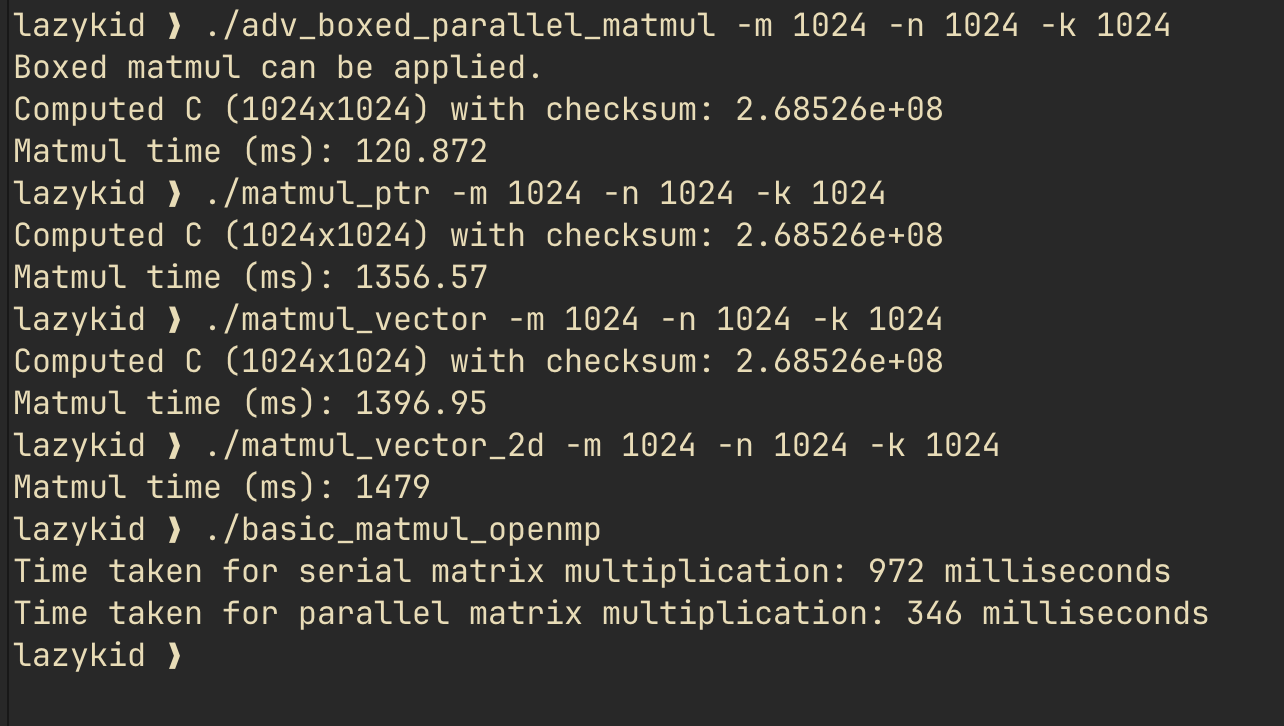
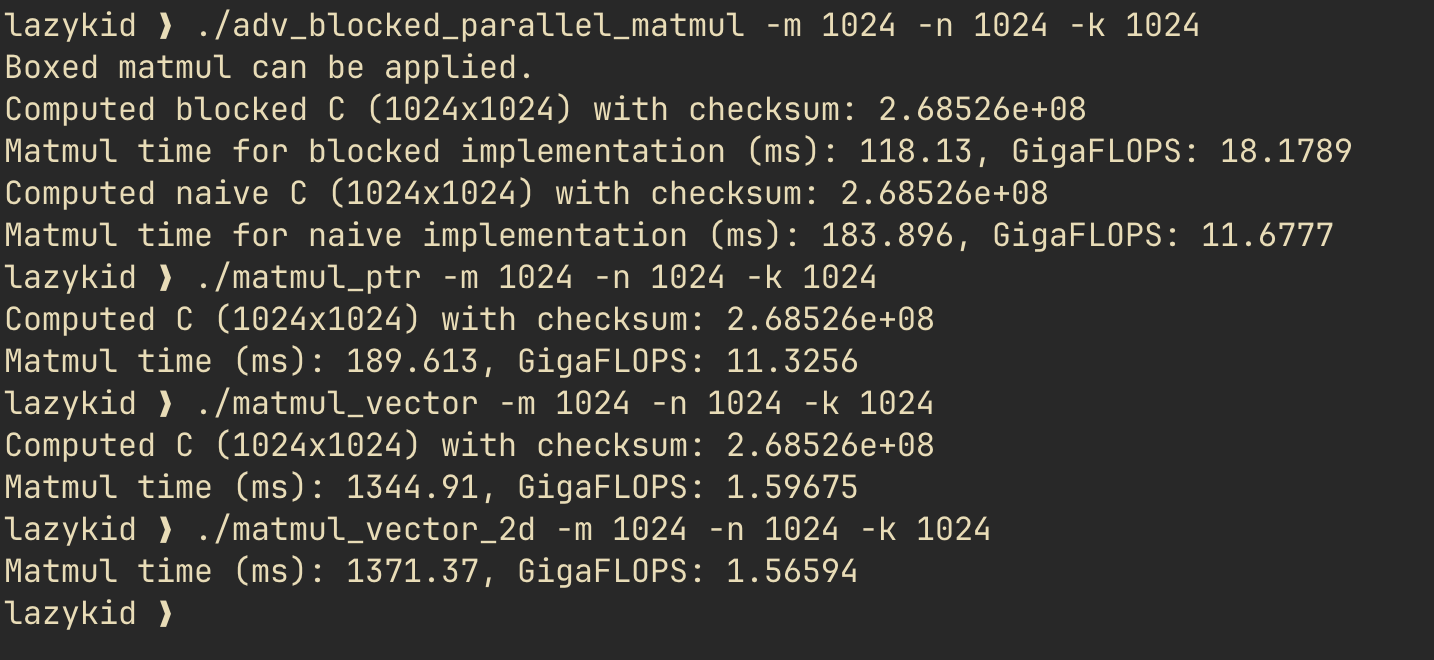
calculating gigaflops for all implementations

Changed region(s): [[0.0, 0.0, 0.9657, 0.9697], [0.8411, 0.3333, 0.9346, 0.3939]]

diff --git a/adv_blocked_parallel_matmul.cpp b/adv_blocked_parallel_matmul.cpp
@@ -34,6 +34,20 @@ size_t safe_mul(size_t a, size_t b, const char* label) {
     return a * b;
 }
 
+double calculate_gflops(size_t m,
+                        size_t n,
+                        size_t k,
+                        std::chrono::duration<double, std::milli> elapsed_ms) {
+    const double elapsed_seconds = elapsed_ms.count() / 1000.0;
+    if (elapsed_seconds <= 0.0) {
+        return 0.0;
+    }
+
+    const double flops = 2.0 * static_cast<double>(m) * static_cast<double>(n) *
+                         static_cast<double>(k);
+    return flops / elapsed_seconds / 1e9;
+}
+
 void naive_matmul(const double* A,
                   const double* B,
                   double* C,
@@ -162,6 +176,9 @@ int main(int argc, char** argv) {
     const auto n_end = std::chrono::steady_clock::now();
     const std::chrono::duration<double, std::milli> n_elapsed_ms = n_end - n_start;
 
+    const double blocked_gflops = calculate_gflops(m, n, k, b_elapsed_ms);
+    const double naive_gflops = calculate_gflops(m, n, k, n_elapsed_ms);
+
     double checksum_blocked = 0.0;
     double checksum_naive = 0.0;
     for (size_t i = 0; i < c_size; ++i) {
@@ -171,10 +188,12 @@ int main(int argc, char** argv) {
 
     std::cout << "Computed blocked C (" << m << "x" << n << ") with checksum: "
               << checksum_blocked << '\n';
-    std::cout << "Matmul time for blocked implementation (ms): " << b_elapsed_ms.count() << '\n';
+    std::cout << "Matmul time for blocked implementation (ms): " << b_elapsed_ms.count()
+              << ", GigaFLOPS: " << blocked_gflops << '\n';
     std::cout << "Computed naive C (" << m << "x" << n << ") with checksum: "
               << checksum_naive << '\n';
-    std::cout << "Matmul time for naive implementation (ms): " << n_elapsed_ms.count() << '\n';
+    std::cout << "Matmul time for naive implementation (ms): " << n_elapsed_ms.count()
+              << ", GigaFLOPS: " << naive_gflops << '\n';
 
     // imp to prevent from leaking memory 
     delete[] A;

diff --git a/matmul_ptr.cpp b/matmul_ptr.cpp
@@ -33,6 +33,20 @@ size_t safe_mul(size_t a, size_t b, const char* label) {
     return a * b;
 }
 
+double calculate_gflops(size_t m,
+                        size_t n,
+                        size_t k,
+                        std::chrono::duration<double, std::milli> elapsed_ms) {
+    const double elapsed_seconds = elapsed_ms.count() / 1000.0;
+    if (elapsed_seconds <= 0.0) {
+        return 0.0;
+    }
+
+    const double flops = 2.0 * static_cast<double>(m) * static_cast<double>(n) *
+                         static_cast<double>(k);
+    return flops / elapsed_seconds / 1e9;
+}
+
 void matmul_naive_ptr(const double* A,
                   const double* B,
                   double* C,
@@ -104,16 +118,17 @@ int main(int argc, char** argv) {
     for (size_t i = 0; i < b_size; ++i) {
         B[i] = dist(rng);
     }
-    for (size_t i = 0; i < b_size; ++i) {
+    for (size_t i = 0; i < c_size; ++i) {
         C[i] = 0.0;
     }
 
     const auto start = std::chrono::steady_clock::now();
 
-    matmul_naive_ptr(A, B, C, m, k, n);
+    matmul_naive_ptr(A, B, C, m, n, k);
 
     const auto end = std::chrono::steady_clock::now();
     const std::chrono::duration<double, std::milli> elapsed_ms = end - start;
+    const double gflops = calculate_gflops(m, n, k, elapsed_ms);
 
     double checksum = 0.0;
     for (size_t i = 0; i < c_size; ++i) {
@@ -122,7 +137,8 @@ int main(int argc, char** argv) {
 
     std::cout << "Computed C (" << m << "x" << n << ") with checksum: "
               << checksum << '\n';
-    std::cout << "Matmul time (ms): " << elapsed_ms.count() << '\n';
+    std::cout << "Matmul time (ms): " << elapsed_ms.count()
+              << ", GigaFLOPS: " << gflops << '\n';
 
     // imp to prevent from leaking memory 
     delete[] A;

diff --git a/matmul_vector_1d.cpp b/matmul_vector_1d.cpp
@@ -63,6 +63,20 @@ size_t safe_mul(size_t a, size_t b, const char* label) {
     return a * b;
 }
 
+double calculate_gflops(size_t m,
+                        size_t n,
+                        size_t k,
+                        std::chrono::duration<double, std::milli> elapsed_ms) {
+    const double elapsed_seconds = elapsed_ms.count() / 1000.0;
+    if (elapsed_seconds <= 0.0) {
+        return 0.0;
+    }
+
+    const double flops = 2.0 * static_cast<double>(m) * static_cast<double>(n) *
+                         static_cast<double>(k);
+    return flops / elapsed_seconds / 1e9;
+}
+
 int main(int argc, char** argv) {
     AnyOption opt;
     opt.setOption('m');
@@ -122,6 +136,7 @@ int main(int argc, char** argv) {
 
     const auto end = std::chrono::steady_clock::now();
     const std::chrono::duration<double, std::milli> elapsed_ms = end - start;
+    const double gflops = calculate_gflops(m, n, k, elapsed_ms);
 
     // Small checksum to keep output compact for large matrices.
     double checksum = 0.0;
@@ -131,7 +146,8 @@ int main(int argc, char** argv) {
 
     std::cout << "Computed C (" << m << "x" << n << ") with checksum: "
               << checksum << '\n';
-    std::cout << "Matmul time (ms): " << elapsed_ms.count() << '\n';
+    std::cout << "Matmul time (ms): " << elapsed_ms.count()
+              << ", GigaFLOPS: " << gflops << '\n';
 
     return 0;
 }

diff --git a/matmul_vector_2d.cpp b/matmul_vector_2d.cpp
@@ -4,6 +4,21 @@
 
 using namespace std;
 const int N = 1024;
+
+double calculate_gflops(int m,
+                        int n,
+                        int k,
+                        chrono::duration<double, std::milli> elapsed_ms) {
+    const double elapsed_seconds = elapsed_ms.count() / 1000.0;
+    if (elapsed_seconds <= 0.0) {
+        return 0.0;
+    }
+
+    const double flops = 2.0 * static_cast<double>(m) * static_cast<double>(n) *
+                         static_cast<double>(k);
+    return flops / elapsed_seconds / 1e9;
+}
+
 int main()
 {
 vector<vector<double>> A(N, vector<double>(N));
@@ -29,7 +44,9 @@ for (int i = 0; i < N; i++) {
     }
 }
 auto end_serial = chrono::high_resolution_clock::now();
-auto duration_serial = chrono::duration_cast<chrono::milliseconds>(end_serial - start_serial);
+chrono::duration<double, std::milli> duration_serial = end_serial - start_serial;
+const double gflops = calculate_gflops(N, N, N, duration_serial);
 
-std::cout << "Matmul time (ms): " << duration_serial.count() << '\n';
+std::cout << "Matmul time (ms): " << duration_serial.count()
+          << ", GigaFLOPS: " << gflops << '\n';
 }

diff --git a/notes/logs.md b/notes/logs.md
@@ -4,6 +4,11 @@
 
 - using sum variable to store the matmul cause loss of performane in pointer implementation. rather if we directly add values in C matrix then it gives massive performance gain like from 1560ms to 190ms.
 - but the same thing backfires on vector implementation and loses perfomance.
+- gigaflops formula: 
+
+$$
+\text{GigaFLOPS} = \frac{2 \times M \times N \times K}{\text{Time in Seconds} \times 10^9}
+$$
 
 ### date: 14/04/2026
 

diff --git a/README.md b/README.md
@@ -8,7 +8,7 @@ In this project we implement matrix multiplication in cpp and then optimize it g
 
 ## Results
 
-![result.png](image.png)
+![results.png](image.png)
 
 ## Build
 
